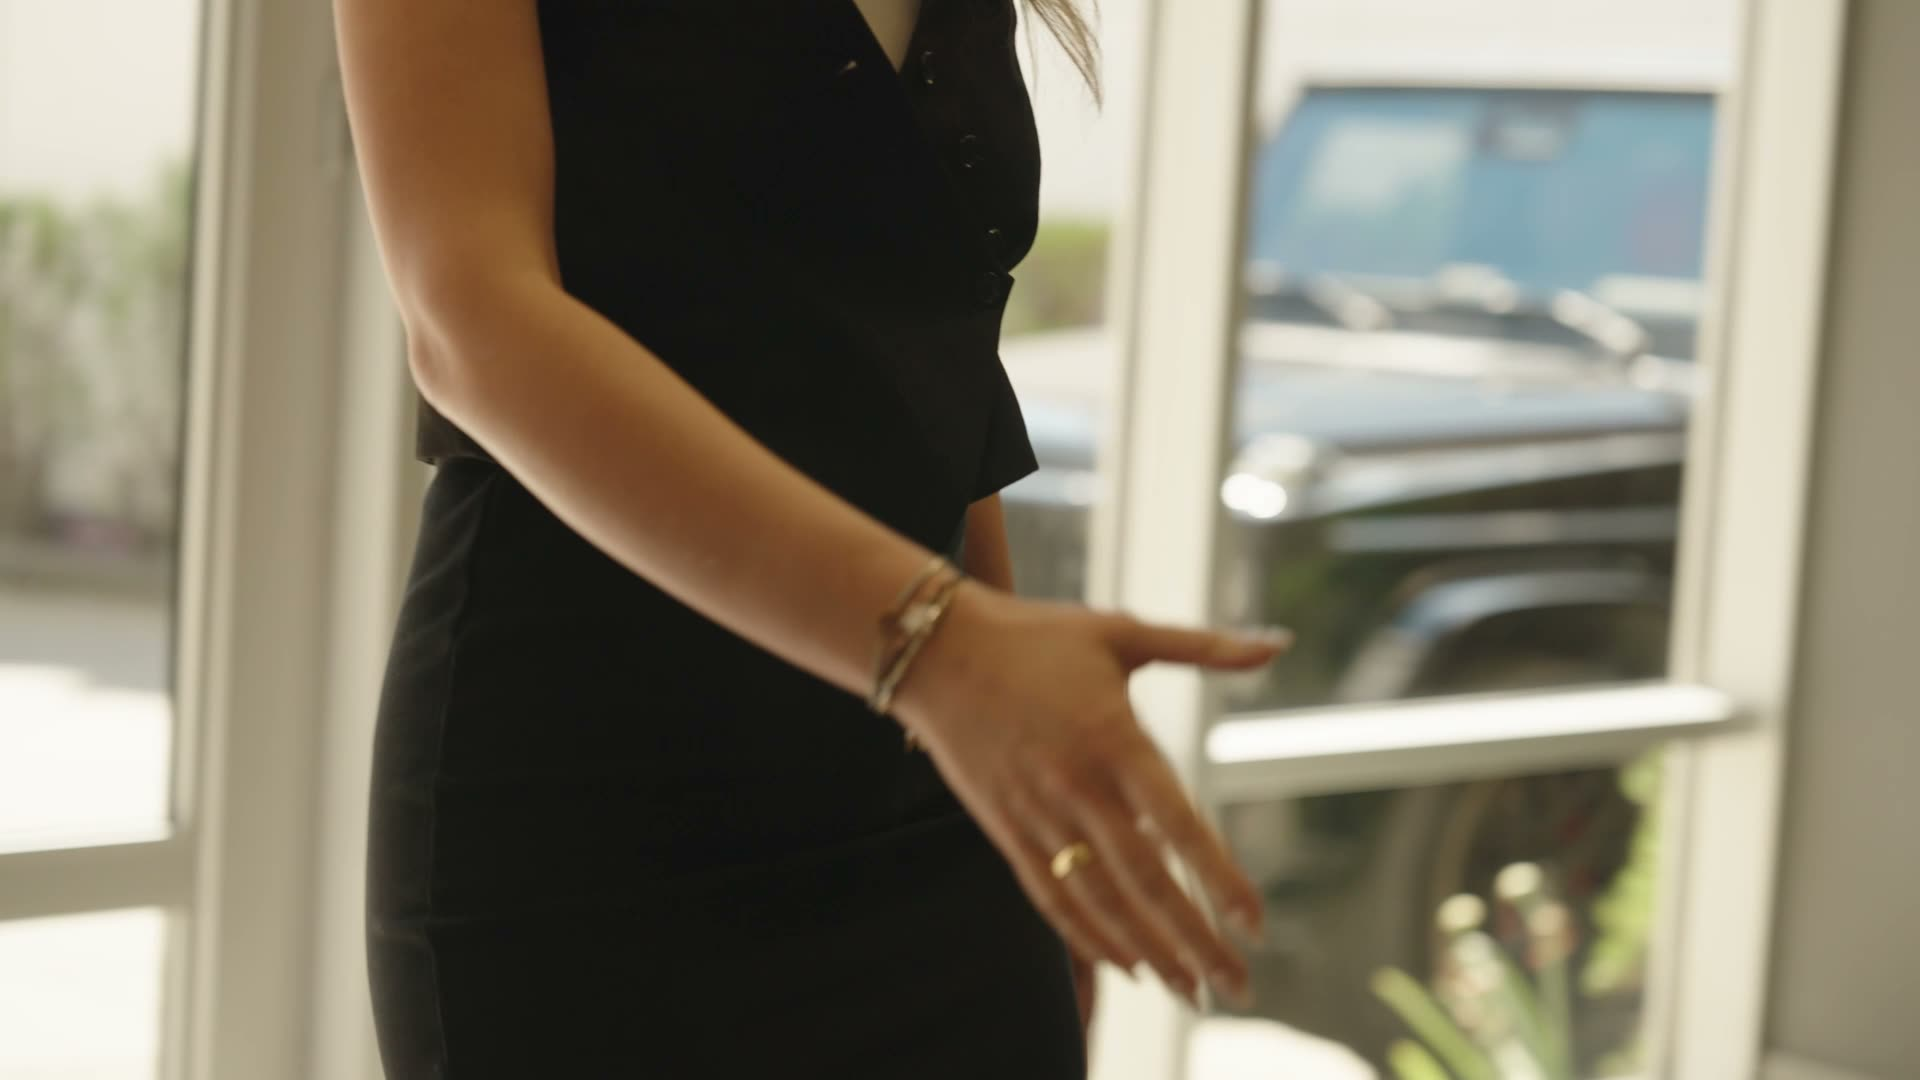
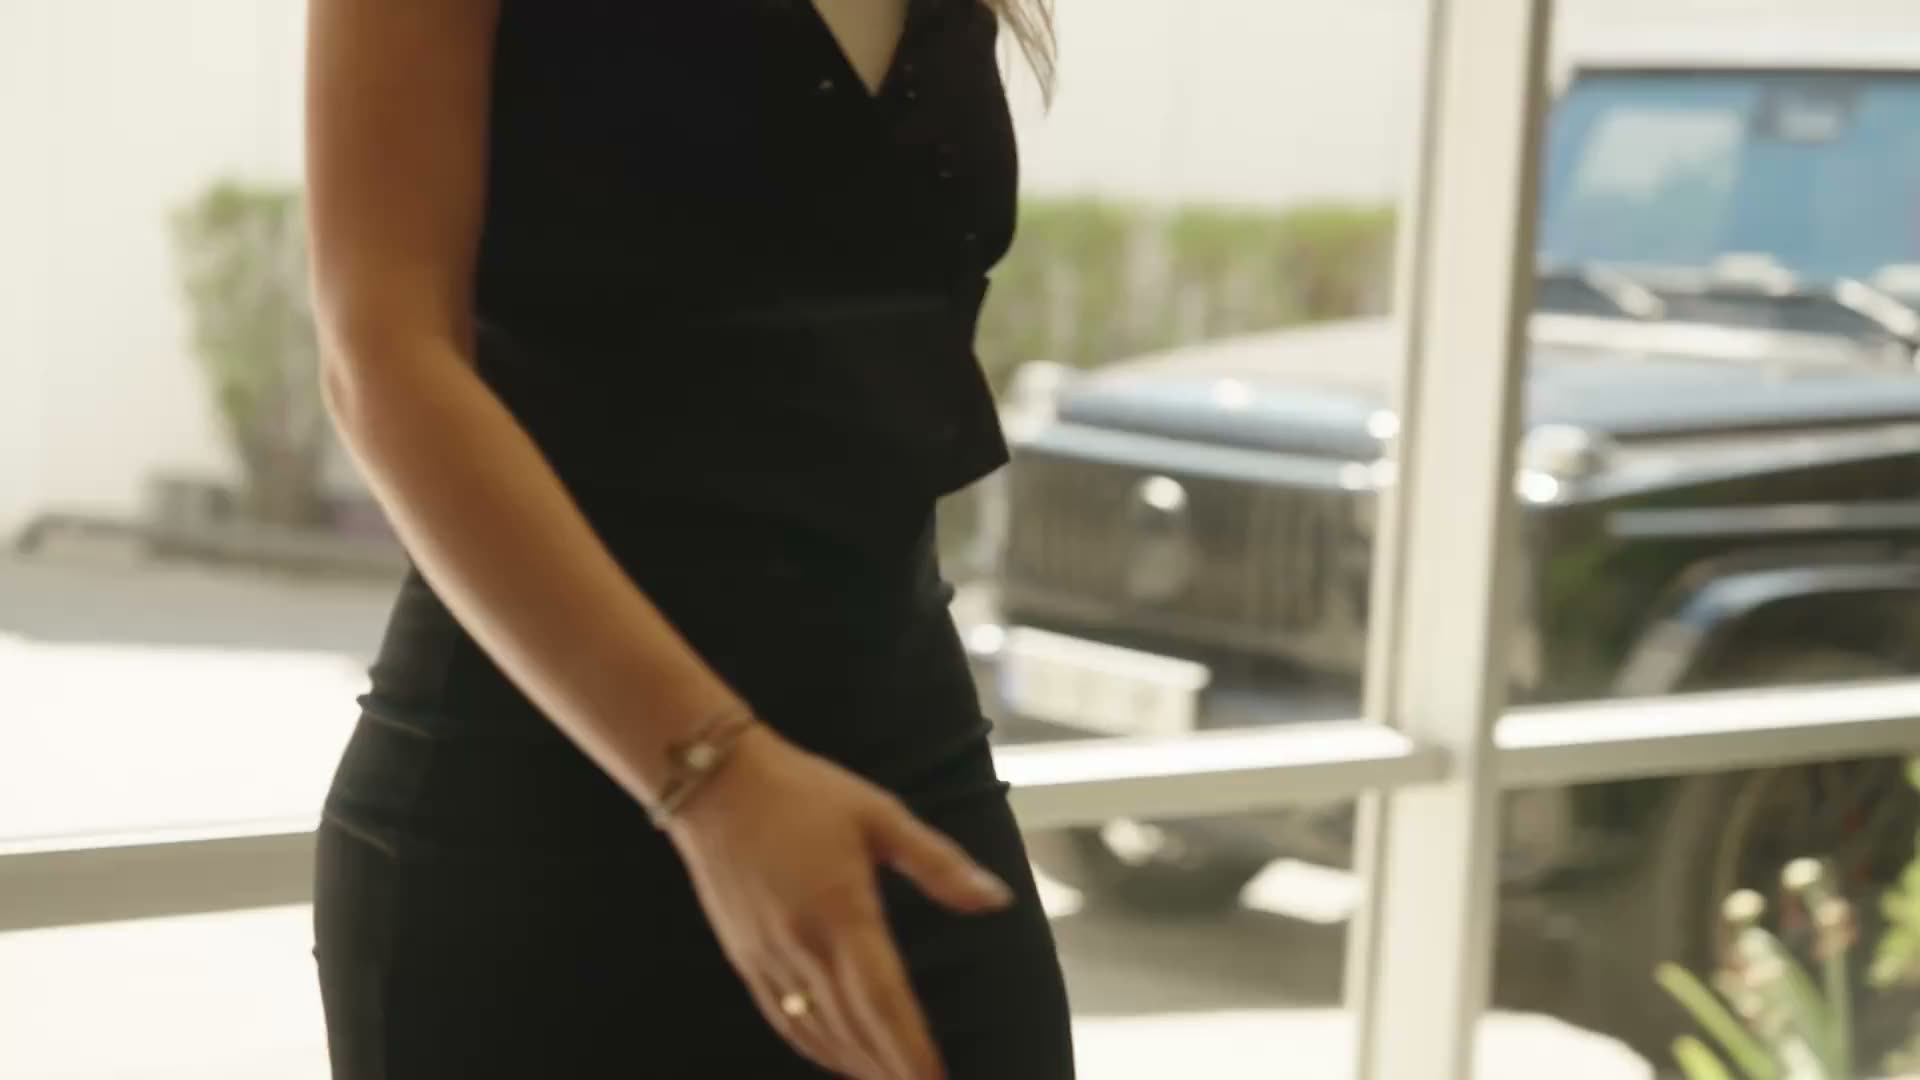
Fix the real hero glitch: poster was frame 0.5s, video starts at 0
This is the cause of the long-standing "hero glitches then restarts"
complaint — and it was never a media problem at all.

poster= paints instantly, before any video bytes arrive. Playback then
begins at currentTime = 0. The poster was generated with `-ss 0.5`, so
every visitor saw:

  1. poster paints          -> the frame at t=0.5s
  2. video starts playing   -> snaps BACKWARD to t=0.0s
  3. replays 0.0 -> 0.5     -> the half second they already saw

Which reads exactly as "glitches for half a second and restarts". On
every load. In every browser. Cached or not.

That browser-independence is the tell, and it is why bandwidth, codec,
frame-rate and backdrop-filter theories all came up empty: nothing about
it is a decode or delivery problem. It is two images shown in the wrong
order.

Measured (mean abs pixel diff, grayscale, 480x270):

  BEFORE   poster vs frame@0.0   44.87
           poster vs frame@0.5   14.63   <- what it actually was
  AFTER    poster vs frame@0.0    1.98   <- JPEG noise only

Poster regenerated from the first frame of hero-home.mp4 (no -ss).
RUNBOOK recipe now derives the poster from $DST with no seek, documents
why, and includes a pixel-diff verification step. Also notes that if the
first frame is a bad still, the fix is to re-cut the video so it opens on
a good frame — not to pick a later poster.

diff --git a/RUNBOOK.md b/RUNBOOK.md
@@ -509,11 +509,31 @@ The `.hero` section on `index.html` renders a locally-hosted looping video (repo
 | Piece | Where |
 |---|---|
 | Video file | `assets/hero-home.mp4` (~18 MB, 1920×1080 **@ 30 fps**, 49 s) — see the frame-rate rule below |
-| Poster JPG | `assets/hero-home-poster.jpg` (~65 KB, frame at 0.5 s) |
+| Poster JPG | `assets/hero-home-poster.jpg` (~64 KB, **frame at 0.0 s** — must match where playback starts) |
 | Emitter | `render.js` `T.hero` (bypasses `mediaTag`, hard-emits `<video>` with `poster=` attribute) |
 | CSS | `.hero__bg video` (extended from the `img` rule at style.css:162) |
 | Mobile shape | Below 600 px viewport, `.hero { aspect-ratio: 1/1; height: auto; }` — square, not tall vertical |
 | Logo fade | `main.js` sets `.hero__logo--faded` on `.hero__logo` after 5 s; CSS transitions opacity + scale over 1.2 s |
+
+### The poster rule — it must be the FIRST frame
+
+**Generate the poster with no `-ss`.** The old recipe used `-ss 0.5`, and that single flag was the cause of the long-running "hero glitches and restarts" complaint.
+
+`poster=` paints instantly, before a single video byte arrives. Playback then begins at `currentTime = 0`. If the poster is the frame at 0.5 s, the visitor sees the 0.5 s image, then the video snaps **backward** to 0.0 s and replays that half second. It reads exactly like a stutter-and-restart — on every load, in every browser, cached or not.
+
+That browser-independence is the tell, and it's why bandwidth, codec and `backdrop-filter` theories all came up empty for weeks: nothing about it is a *media* problem. It's two images shown in the wrong order.
+
+Verify with a pixel diff — the poster must match frame 0, not some later frame:
+
+```bash
+ffmpeg -y -v error -i assets/hero-home.mp4 -frames:v 1 -vf "scale=480:270,format=gray" /tmp/f0.png
+ffmpeg -y -v error -i assets/hero-home-poster.jpg -vf "scale=480:270,format=gray" /tmp/p.png
+# Compare /tmp/f0.png and /tmp/p.png — they should be near-identical.
+```
+
+Measured before the 2026-08-04 fix: poster-vs-frame-0 difference **44.87**, poster-vs-frame-0.5 **14.63** (i.e. it was the 0.5 s frame). After: poster-vs-frame-0 is **1.98** — JPEG noise only.
+
+If the first frame is a bad still (black, mid-blink), **re-cut the video so it opens on a good frame**. Do not paper over it by picking a later poster.
 
 ### The frame-rate rule — encode at 30 fps, always
 
@@ -554,7 +574,8 @@ ffmpeg -y -i "$SRC" \
   -movflags +faststart -pix_fmt yuv420p -an \
   "$DST"
 
-ffmpeg -y -ss 0.5 -i "$SRC" -frames:v 1 -vf "scale=1920:-1" -q:v 4 "$POSTER"
+# Poster MUST be the FIRST frame — no -ss. See the rule below.
+ffmpeg -y -i "$DST" -frames:v 1 -vf "scale=1920:-1" -q:v 4 "$POSTER"
 
 # Verify BEFORE committing — this must print 30/1:
 ffprobe -v error -select_streams v:0 -show_entries stream=r_frame_rate -of csv=p=0 "$DST"
